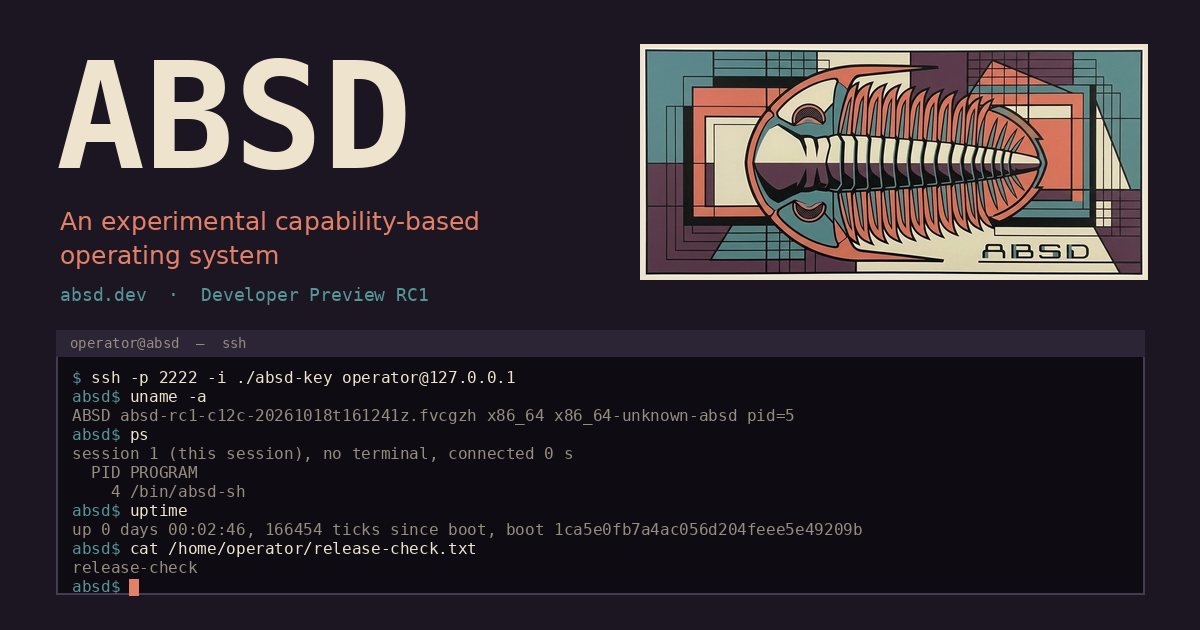
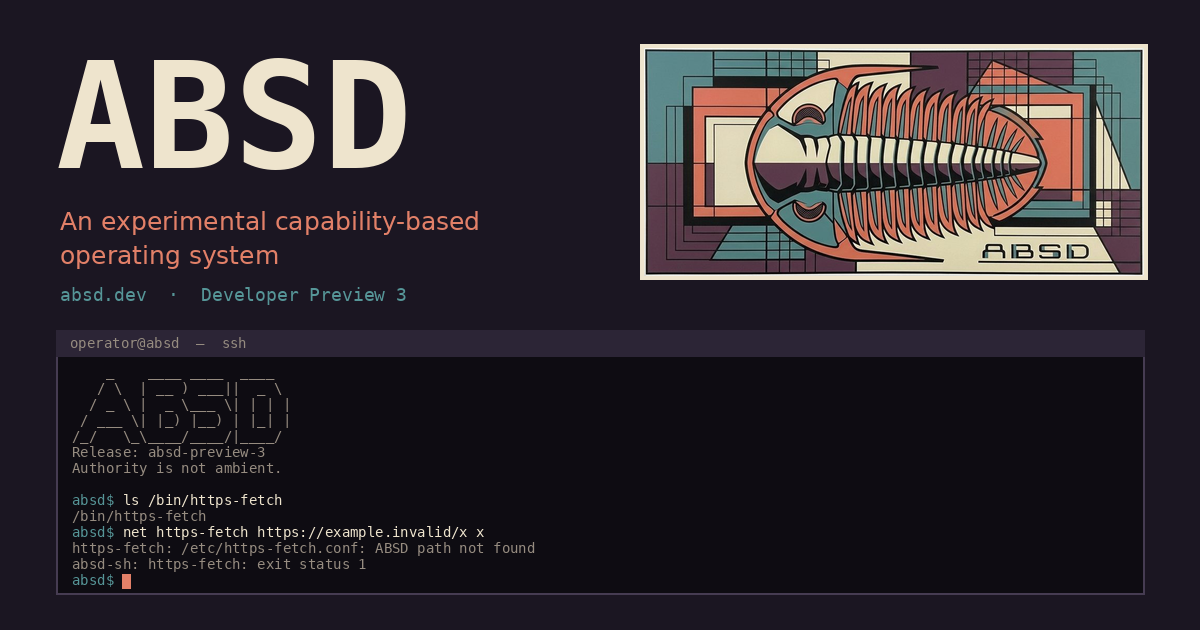
Show a Developer Preview 3 session on the social card

diff --git a/scripts/make-og-card.py b/scripts/make-og-card.py
@@ -1,8 +1,10 @@
 #!/usr/bin/env python3
 """Render the 1200x630 social preview card (src/static/og-card.png).
 
-The terminal lines are verbatim from the RC1 outsider-agent trial (2026-10-18),
-an SSH session against the published absd-preview-rc1 build. Rerun after
+The terminal lines are verbatim from one SSH session of the Developer Preview 3
+release rehearsal (2026-11-28, terminal T4): a script typing the guide's
+commands against the published absd-preview-3 files under QEMU TCG. The
+session's last prompt is cut at the cursor. Rerun after
 changing the copy: python3 -I scripts/make-og-card.py
 """
 import pathlib
@@ -21,17 +23,19 @@ TEAL = (86, 150, 152)
 DIM = (150, 140, 128)
 
 TRANSCRIPT = [
-    ("$ ", "ssh -p 2222 -i ./absd-key operator@127.0.0.1"),
-    ("absd$ ", "uname -a"),
-    ("", "ABSD absd-rc1-c12c-20261018t161241z.fvcgzh x86_64 x86_64-unknown-absd pid=5"),
-    ("absd$ ", "ps"),
-    ("", "session 1 (this session), no terminal, connected 0 s"),
-    ("", "  PID PROGRAM"),
-    ("", "    4 /bin/absd-sh"),
-    ("absd$ ", "uptime"),
-    ("", "up 0 days 00:02:46, 166454 ticks since boot, boot 1ca5e0fb7a4ac056d204feee5e49209b"),
-    ("absd$ ", "cat /home/operator/release-check.txt"),
-    ("", "release-check"),
+    ("", "    _    ____ ____  ____"),
+    ("", "   / \\  | __ ) ___||  _ \\"),
+    ("", "  / _ \\ |  _ \\___ \\| | | |"),
+    ("", " / ___ \\| |_) |__) | |_| |"),
+    ("", "/_/   \\_\\____/____/|____/"),
+    ("", "Release: absd-preview-3"),
+    ("", "Authority is not ambient."),
+    ("", ""),
+    ("absd$ ", "ls /bin/https-fetch"),
+    ("", "/bin/https-fetch"),
+    ("absd$ ", "net https-fetch https://example.invalid/x x"),
+    ("", "https-fetch: /etc/https-fetch.conf: ABSD path not found"),
+    ("", "absd-sh: https-fetch: exit status 1"),
     ("absd$ ", ""),
 ]
 
@@ -58,7 +62,7 @@ def main():
     sub = font("DejaVuSans.ttf", 25)
     d.text((60, 206), "An experimental capability-based", font=sub, fill=CORAL)
     d.text((60, 240), "operating system", font=sub, fill=CORAL)
-    d.text((60, 284), "absd.dev  ·  Developer Preview RC1", font=font("DejaVuSansMono.ttf", 18), fill=TEAL)
+    d.text((60, 284), "absd.dev  ·  Developer Preview 3", font=font("DejaVuSansMono.ttf", 18), fill=TEAL)
 
     # Terminal panel, bottom.
     px0, py0, px1, py1 = 56, 330, W - 56, H - 36
@@ -66,8 +70,8 @@ def main():
     d.rectangle([px0, py0, px1, py0 + 26], fill=(44, 37, 54))
     d.text((px0 + 14, py0 + 5), "operator@absd  —  ssh", font=font("DejaVuSansMono.ttf", 14), fill=DIM)
 
-    mono = font("DejaVuSansMono.ttf", 16)
-    y = py0 + 38
+    mono = font("DejaVuSansMono.ttf", 14)
+    y = py0 + 34
     for prompt, text in TRANSCRIPT:
         x = px0 + 16
         if prompt:
@@ -78,8 +82,8 @@ def main():
             d.text((x, y), text, font=mono, fill=DIM)
         if prompt == "absd$ " and not text:
             cx = x + d.textlength(text, font=mono)
-            d.rectangle([cx, y + 2, cx + 9, y + 18], fill=CORAL)
-        y += 19
+            d.rectangle([cx, y + 2, cx + 8, y + 16], fill=CORAL)
+        y += 16
 
     im.save(OUT, optimize=True)
     print(OUT, im.size, OUT.stat().st_size)

diff --git a/build.py b/build.py
@@ -521,7 +521,7 @@ def layout(url, title, description, body, h1_in_body=True, unlisted=False):
 <meta property="og:image" content="{BASE}/og-card.png">
 <meta property="og:image:width" content="1200">
 <meta property="og:image:height" content="630">
-<meta property="og:image:alt" content="ABSD, an experimental capability-based operating system: the trilobite emblem and an SSH session on the RC1 preview.">
+<meta property="og:image:alt" content="ABSD, an experimental capability-based operating system: the trilobite emblem and an SSH session on Developer Preview 3.">
 <meta name="twitter:card" content="summary_large_image">
 <meta name="twitter:image" content="{BASE}/og-card.png">
 <link rel="icon" href="/favicon.svg" type="image/svg+xml">
